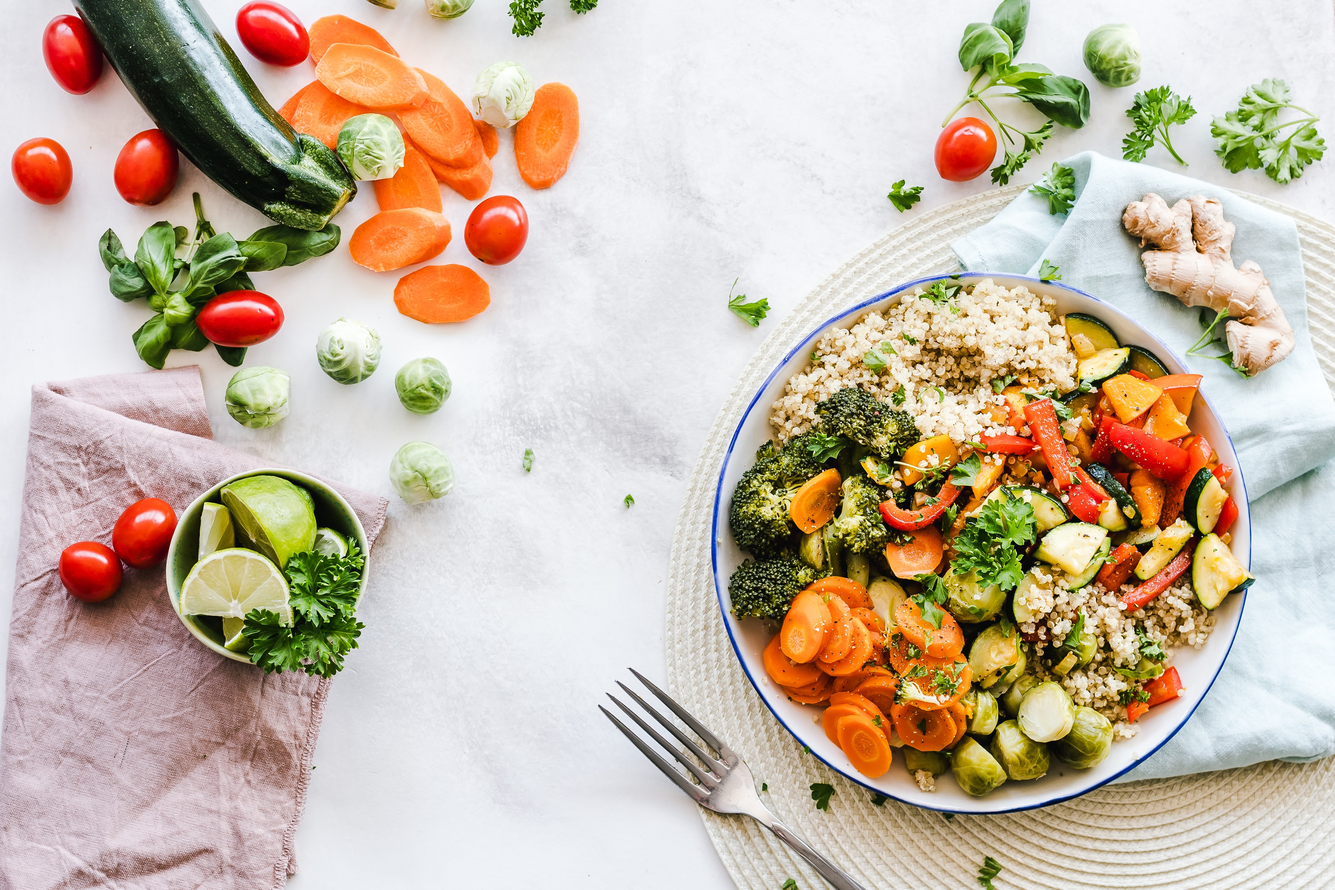
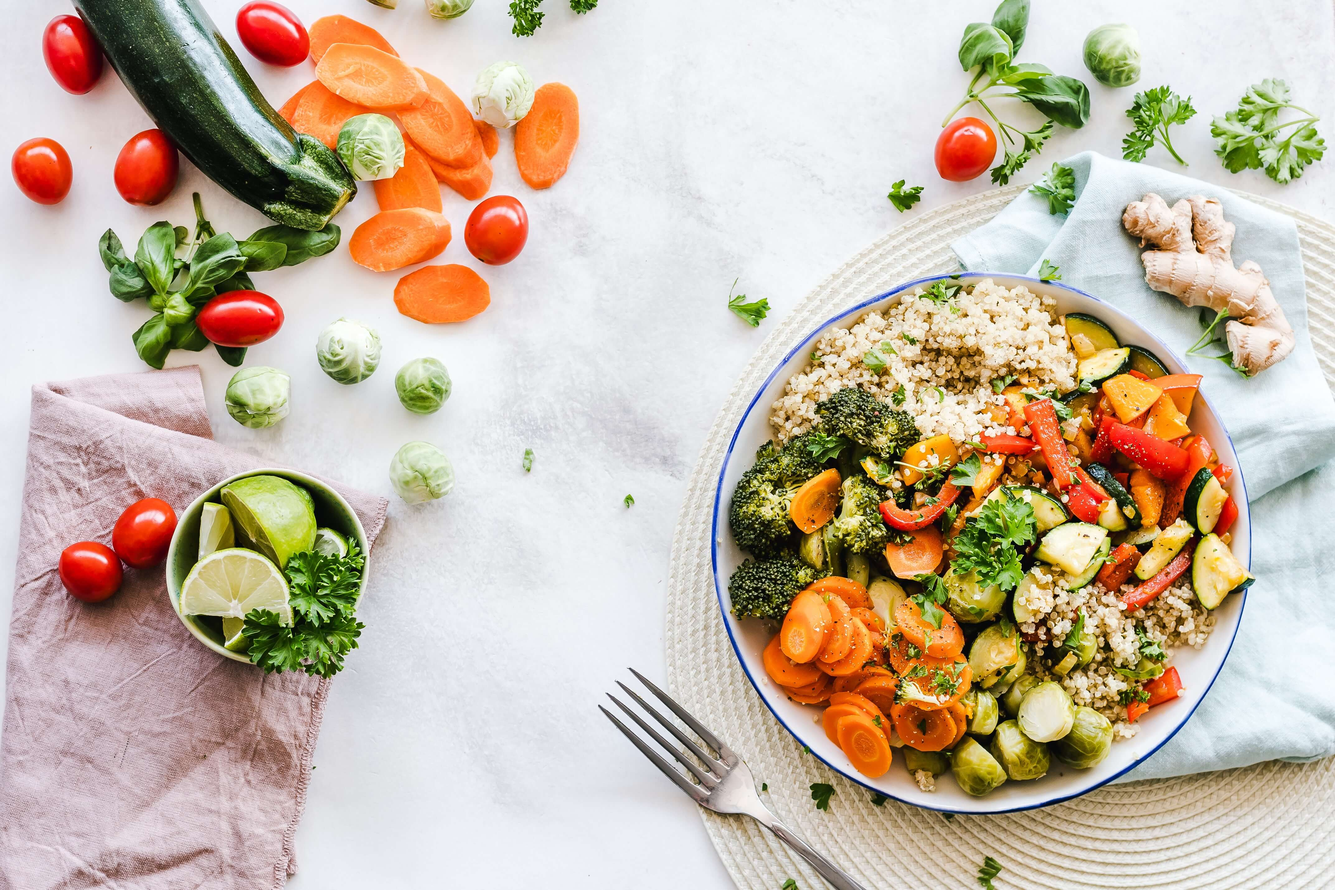
Add animation to sign up button

diff --git a/index.css b/index.css
@@ -213,7 +213,8 @@ ul, ol {
 
 .bg-img {
 	background-image: url("pexels-ella-olsson-1640777.jpg");
-	background-size: 150%;
+	background-size: 200%;
+	background-position: center;
 }
 
 h2 {
@@ -243,6 +244,31 @@ h2 {
 	align-self: center;
 	line-height: 2.5rem;
 	padding: 2%;
+}
+
+.testimonials .signup {
+	background-color: var(--darkergreen);
+	width: max-content;
+	font-size: 4rem;
+	padding: 2% 1%;
+	border-radius: 15px;
+	padding: 1%;
+}
+
+.testimonials .signup a:hover {
+	animation: open 1s;
+}
+
+@keyframes open {
+	50% {transform: scale(0.25, 1)};
+}
+
+.testimonials .signup a {
+	margin: 0 auto;
+}
+
+.signup a:hover {
+	color: var(--peachy);
 }
 
 /* #endregion */
@@ -312,20 +338,7 @@ h2 {
 
 /* #endregion */
 
-.testimonials .signup {
-	text-align: center;
-	background-color: var(--darkergreen);
-	width: max-content;
-	margin: 0 auto 2% auto;
-	font-size: 4rem;
-	padding: 1%;
-	border-radius: 15px;
-}
-
-.signup a:hover {
-	color: var(--peachy);
-}
-
+/* #region footer */
 footer {
     text-align: center;
     background-color: var(--greyish);
@@ -351,7 +364,20 @@ small {
     padding:1% 0;
     color: var(--pastelgreen);
 }
+/* #endregion */
 
+/* small nav fix for 800-1000px width */
+@media only screen and (max-width: 1000px) {
+	.links a {
+		padding: 2%;
+	}
+	.login {
+		width: max-content;
+	}
+	h1 {
+		width: max-content;
+	}
+}
 
 @media only screen and (max-width: 800px) and (orientation: portrait) {
 	/* #region nav tablet */
@@ -364,7 +390,7 @@ small {
     .login a{
         font-size: 1.5rem;
     }
-	/* #end region */
+	/* #endregion */
 
 	/* #region index tablet */
 	.sample-card li, p{
@@ -538,7 +564,8 @@ small {
 		padding: 2%;
 	}
 	/* #endregion */
-	/* #region faq */
+	
+	/* #region faq mobile */
 	.faq div {
 		width: 100%;
 		margin-left: 2%;
@@ -553,6 +580,8 @@ small {
 		line-height: 3rem;
 	}
 	/* #endregion */
+
+	/* #region footer mobile */
 	footer {
         height: 15vh;
         padding: 3%;
@@ -571,11 +600,11 @@ small {
         padding-top: 5%;
         color: var(--pastelgreen);
 	}
-
+	/* #endregion */
 }
 
 @media (max-width: 800px) and (orientation: landscape) {
-	/* #region landscape mode nav */
+	/* #region nav mobile landscape */
 	nav {
 		height: 15vh;
 	}
@@ -599,7 +628,7 @@ small {
 
 	/* #endregion */
 	
-	/* #region landscape index */
+	/* #region index mobile landscape*/
 	.pitch {
 		font-size: 2.5rem;
 	}
@@ -642,7 +671,7 @@ small {
 	
 	/* #endregion */
 
-	/* #region landscape mode faq */
+	/* #region faq mobile landscape*/
 	.h2-faq {
 		font-size: 3rem;
 		width: 82%;
@@ -658,6 +687,8 @@ small {
 		margin-left: 6%;
 	}
 	/* #endregion */
+	
+	/* #region footer landscape */
 	footer {
 		height: 10vh;
 	}
@@ -669,4 +700,5 @@ small {
 	small {
 		font-size: .75rem;
 	}
+	/* #endregion */
 }
